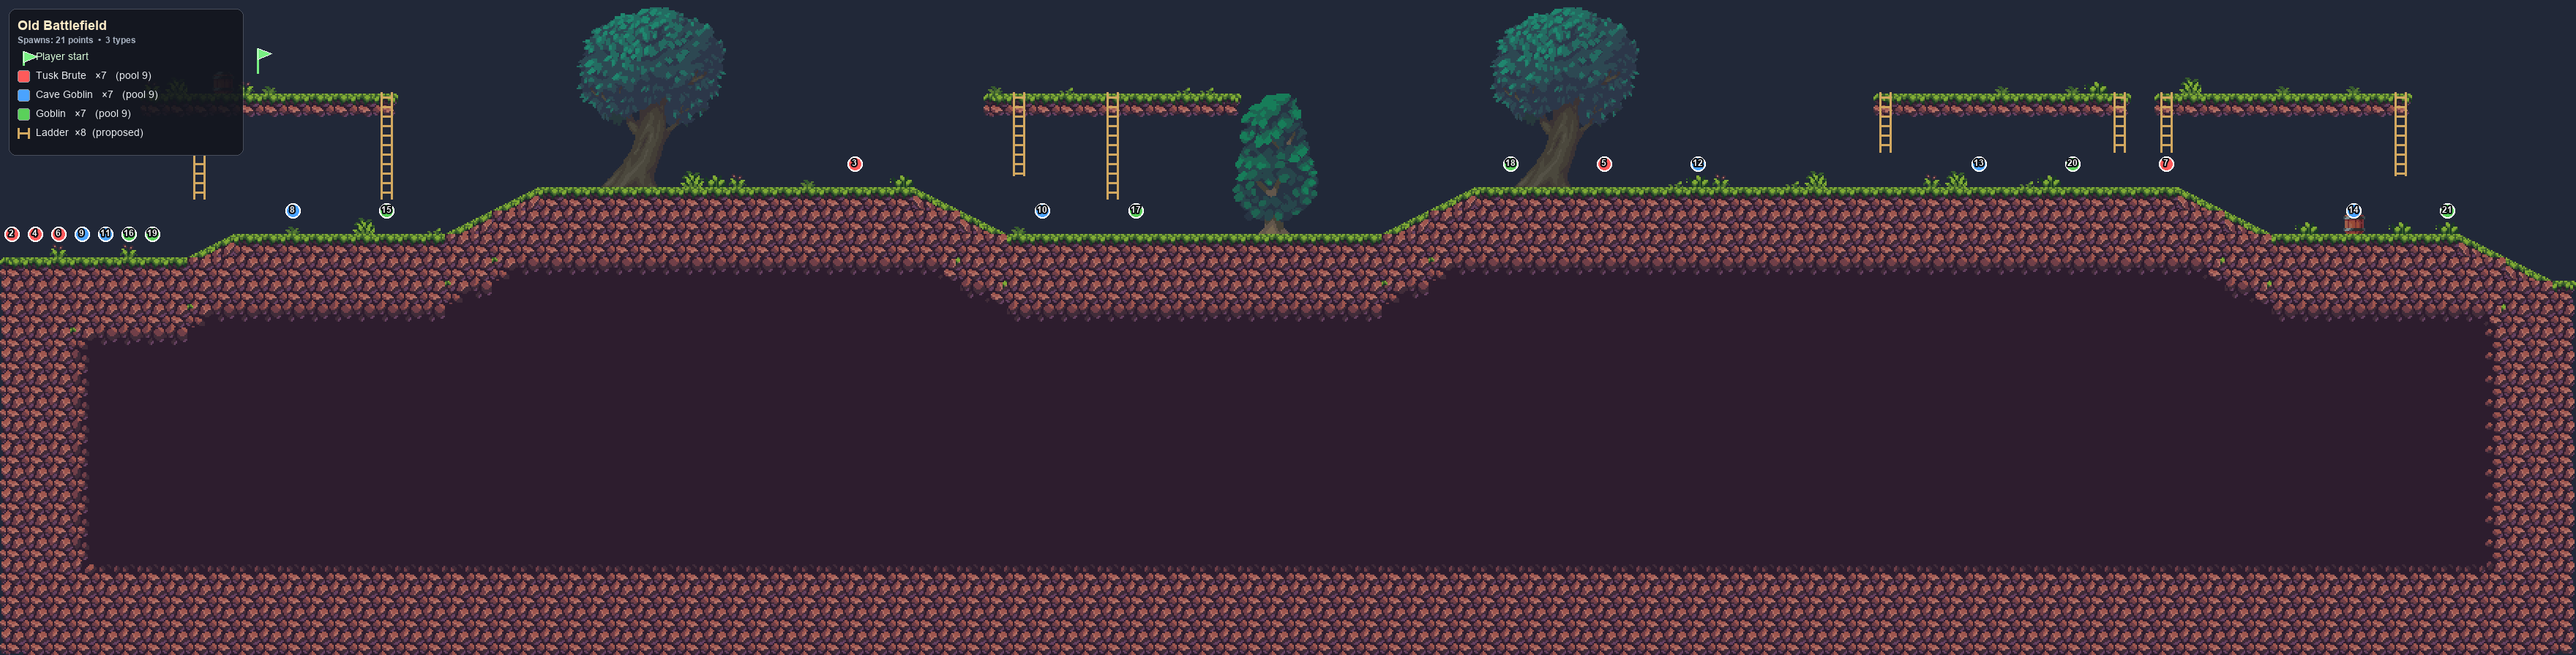
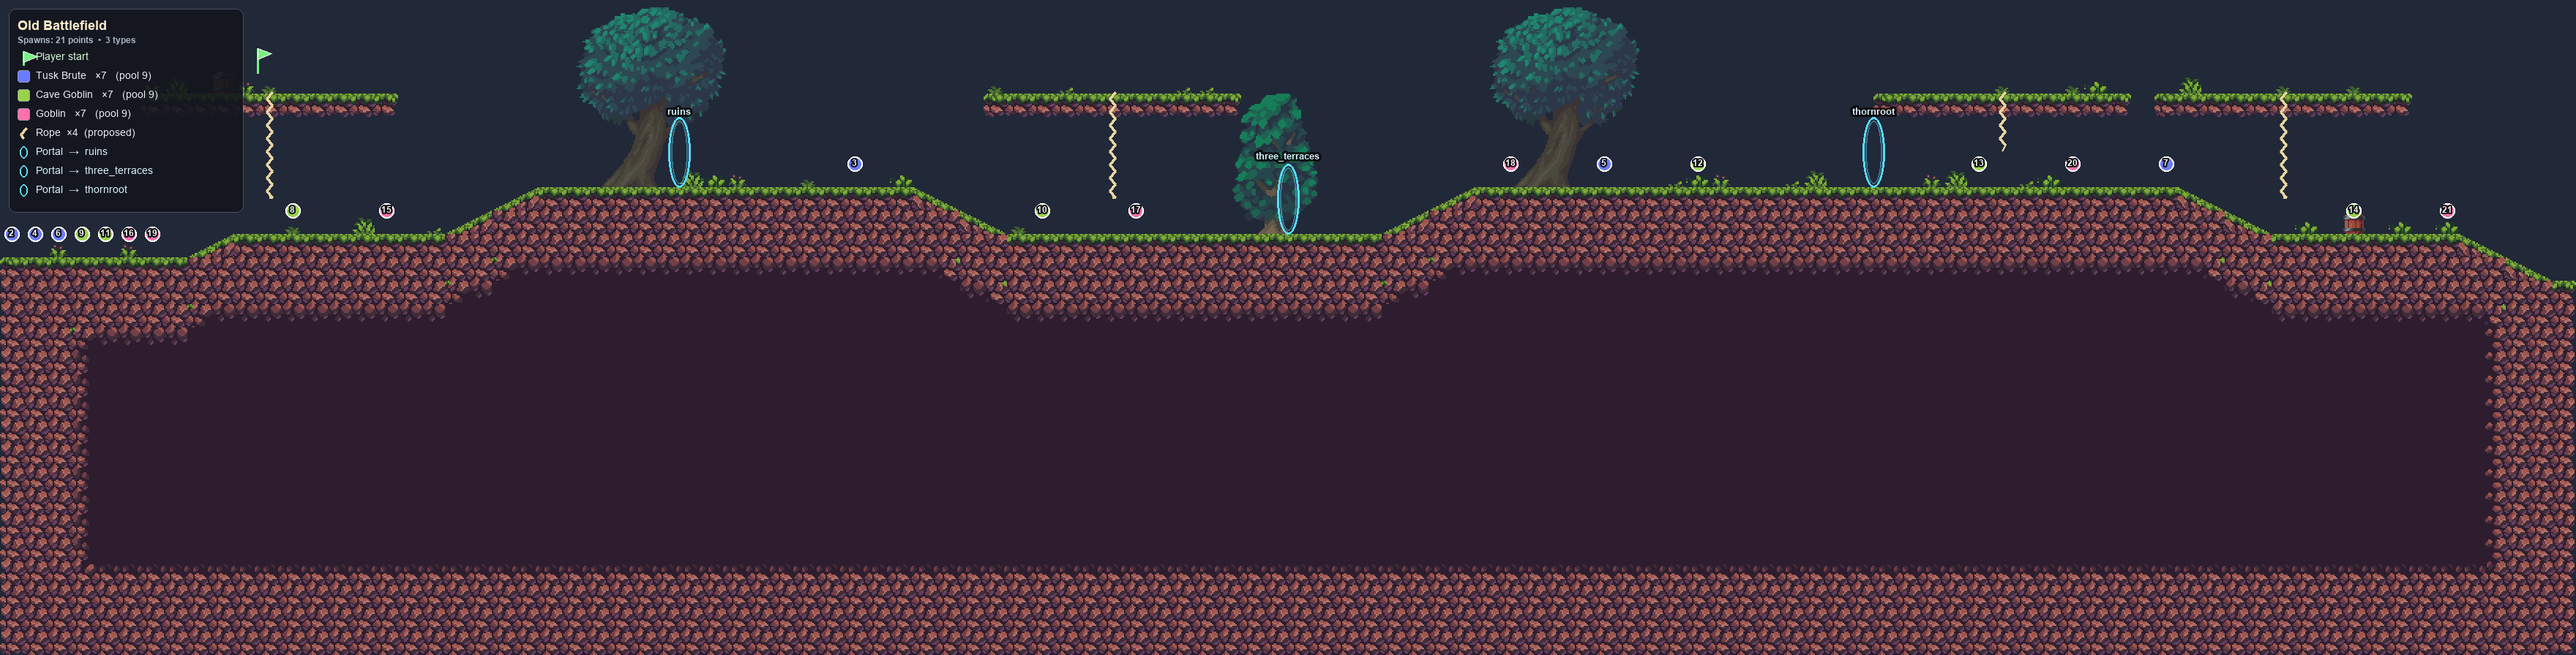
Previews show real portals/ropes/player-start; skill documents overlays + rules
render_map_previews now reads the ACTUAL scene nodes — `PortalTo*` portals (with
destination) and `Ropes`/`Ladders` climbers — instead of proposed/hardcoded
guesses, so annotated previews show every overlay (spawn pins, portal doors,
player-start flag, ladders/ropes, legend). Re-rendered all 19 maps.

add-map skill: the Visualize section now lists what the preview shows and that
it's read from real nodes; safe perches are documented as AFK/heal spots the
generator makes; the rope rule allows multiple climbs on a platform ONLY if each
reaches a different platform; spawn-placement reserves a buffer around every
portal (clear_portal_spawns enforces it).

diff --git a/.claude/skills/add-map/SKILL.md b/.claude/skills/add-map/SKILL.md
@@ -120,14 +120,18 @@ Two **map-agnostic** tools that work on any map's `.tscn`, however it was built.
 Godot is at `C:\Program Files\Godot\Godot.exe`; edit the `MAPS` list at the top of
 each `.gd` to choose which maps to process.
 
-**Annotated spawn previews (meowdb-style)** — use these whenever you show a map
-preview, so spawn points + the enemy roster are visible:
-- `tools/render_map_previews.gd` reads each scene, renders it faithfully from the
-  tile layers, and extracts every spawner's enemy type + `pool_size` + each spawn
-  marker projected into image pixels → `docs/map_previews/<map>.png` + `spawns.json`.
-- `tools/annotate_map_previews.py` (`pip install Pillow`) draws numbered, colour-coded
-  pins (one per spawn marker) + a legend listing each enemy with its **spawn-point
-  count and pool size** → `docs/map_previews/<map>_annotated.png`.
+**Annotated previews (meowdb-style)** — ALWAYS render one when you show a map, so the player can
+see the whole map at a glance. It overlays everything, read from the REAL scene nodes (not guesses):
+- `tools/render_map_previews.gd` renders the map faithfully from its tile layers and extracts
+  → `docs/map_previews/<map>.png` + `spawns.json`: every **spawner** (enemy type + `pool_size` +
+  each spawn marker), every **portal** (`PortalTo*` node position + its `target_map_id`), every
+  **rope/ladder** (the `Ropes`/`Ladders` Area2D climbers, with extent), and the **player-start**
+  (`PlayerSpawn` — where you appear on a fresh login or a *direct* teleport to the map, as opposed
+  to arriving through a portal at an arrival marker). Edit the `MAPS` list at the top to pick maps.
+- `tools/annotate_map_previews.py` (`pip install Pillow`) draws them onto the render →
+  `docs/map_previews/<map>_annotated.png`: numbered colour-coded **enemy spawn pins**, cyan
+  **portal doors** (labelled with destination), the green **player-start flag**, the **ladder/rope**
+  climb lines, and a **legend** listing each enemy with its spawn-point count + pool size.
 ```bash
 "$GODOT" --headless --path . --script res://tools/render_map_previews.gd
 python tools/annotate_map_previews.py
@@ -176,12 +180,14 @@ stalactite hang into a platform's jump space.
 any training platform — gaps all around), reached by **ONE short access rope**. Place each
 in an **open gap, clear of the tier climbs** — NEVER where the tier platforms converge (a
 perch jammed into the convergence makes ropes pile through it; give it breathing room, e.g.
-hang it over a row-gap above a wide ledge). Enemies never spawn on them. A few per map.
+hang it over a row-gap above a wide ledge). Enemies never spawn on them, so they're where players
+**AFK or heal up**. A few per map. The generator (`_build_field`) makes these automatically.
 
 **Ropes/ladders** — SHORT and few:
-- **One per platform** — every platform needs just *a* way up; no redundant climbs. Do NOT
-  thread one tall rope through multiple tiers (the "optimal" multi-tier shaft was explicitly
-  rejected).
+- **No redundant climbs** — a platform needs *a* way up, but NEVER two ropes/ladders that lead
+  to the SAME place. Multiple climbs on one platform are fine ONLY if each reaches a DIFFERENT
+  platform. And do NOT thread one tall rope through multiple tiers (the "optimal" multi-tier shaft
+  was explicitly rejected).
 - **Connect only ADJACENT levels** — a rope bridges a platform to the one directly below
   (or a perch to the platform below it).
 - **Hang above the surface below** — rope bottom sits ~**2 tiles above** the lower surface
@@ -192,8 +198,9 @@ hang it over a row-gap above a wide ledge). Enemies never spawn on them. A few p
   build from scratch (instancing drops child-resize overrides). Bots climb them.
 
 **Spawn placement** — enemies go on flat top-surface stretches only; EXCLUDE the ceiling/roof
-(a real spawn surface has solid above it in-column, else it's the roof top), the safe perches,
-and a thin column buffer at each portal/spawn edge so a player isn't dropped onto a mob.
+(a real spawn surface has solid above it in-column, else it's the roof top), the safe perches, and
+a buffer around **EVERY portal** (and the player-start) so you're never dropped onto a mob when you
+arrive or teleport in. `tools/clear_portal_spawns.gd` enforces the portal buffer after portals are wired.
 
 **Density** — `pool_size` is the COUNT lever (solo sees `floor(0.75 * sum of all spawner
 pools)` alive map-wide); markers only set WHERE (each spawn picks a random marker). For long
